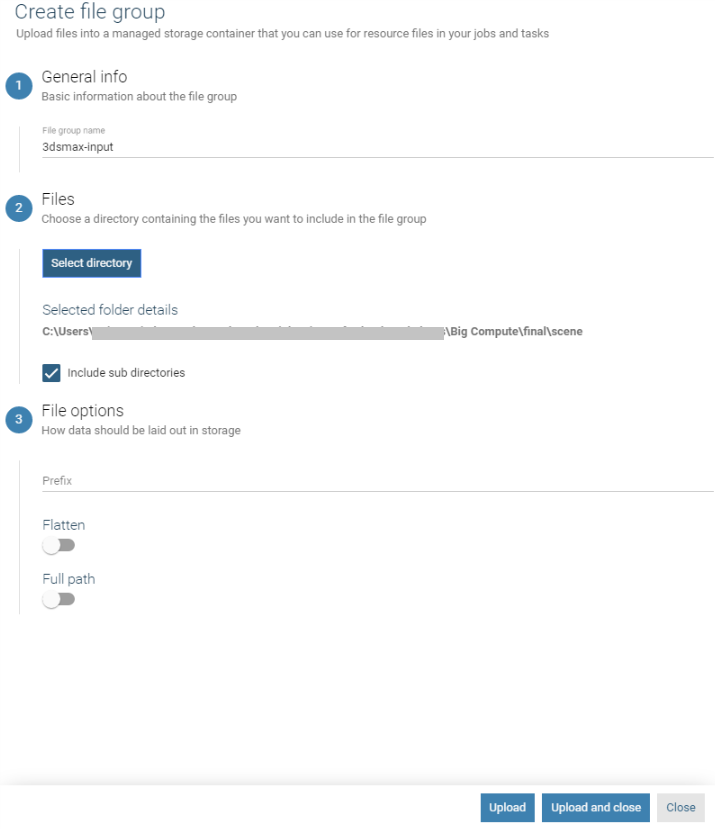
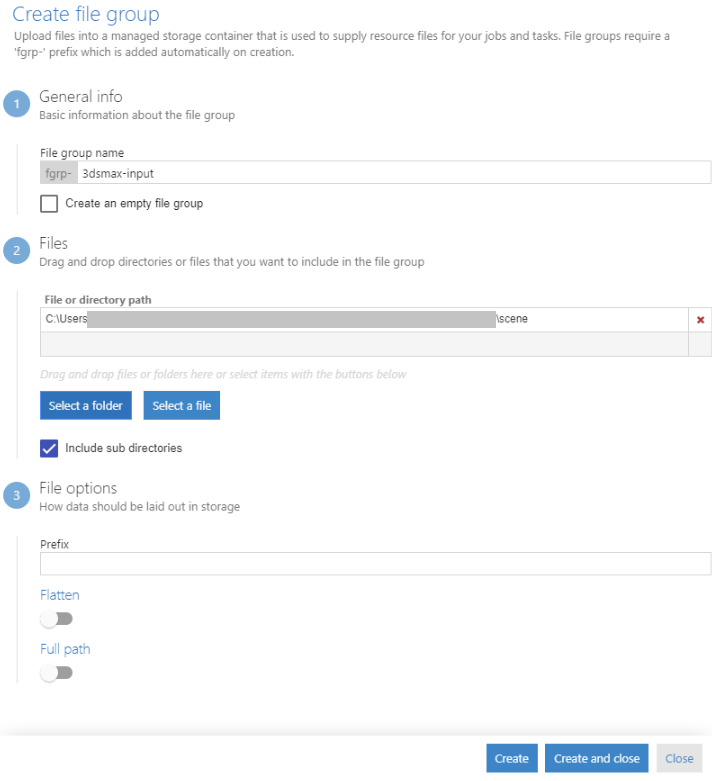
completed test fix

diff --git a/Hands-on lab/HOL step-by step - Big Compute.md b/Hands-on lab/HOL step-by step - Big Compute.md
@@ -9,7 +9,7 @@ Hands-on lab step-by-step
 </div>
 
 <div class="MCWHeader3">
-March 2018
+June 2018
 </div>
 
 Information in this document, including URL and other Internet Web site references, is subject to change without notice. Unless otherwise noted, the example companies, organizations, products, domain names, e-mail addresses, logos, people, places, and events depicted herein are fictitious, and no association with any real company, organization, product, domain name, e-mail address, logo, person, place or event is intended or should be inferred. Complying with all applicable copyright laws is the responsibility of the user. Without limiting the rights under copyright, no part of this document may be reproduced, stored in or introduced into a retrieval system, or transmitted in any form or by any means (electronic, mechanical, photocopying, recording, or otherwise), or for any purpose, without the express written permission of Microsoft Corporation.
@@ -135,10 +135,10 @@ In this exercise, you will setup your environment to work with Azure Batch.
 
 12. Select OK
 
-13. On the Choose a Size blade, select D1 Standard and then Select\
-    ![D1 Standard is selected in the Choose a size blade.](images/Hands-onlabstep-bystep-BigComputeimages/media/image19.png "Choose a size blade")
+13. On the Choose a Size blade, select D1_v2 Standard and then Select\
+    ![D1_v2 Standard is selected in the Choose a size blade.](images/Hands-onlabstep-bystep-BigComputeimages/media/image19.png "Choose a size blade")
 
-14. On the Settings blade, leave the defaults and select OK\
+14. On the Settings blade, under Select public inbound ports select SSH. Leave the remaining settings at their defaults and select OK\
     ![The Settings blade displays with the default settings.](images/Hands-onlabstep-bystep-BigComputeimages/media/image20.png "Settings blade")
 
 15. On the Create blade, select Create\
@@ -165,7 +165,7 @@ In this exercise, you will setup your environment to work with Azure Batch.
 
 2.  Within your SSH session, run the following command to prepare for the CLI:
     ```
-    echo "deb [arch=amd64] https://packages.microsoft.com/repos/azure-cli/ wheezy main" | \
+    echo "deb [arch=amd64] https://packages.microsoft.com/repos/azure-cli/ xenial main" | \
          sudo tee /etc/apt/sources.list.d/azure-cli.list
     ```
 
@@ -186,10 +186,8 @@ In this exercise, you will setup your environment to work with Azure Batch.
 
 6.  The Azure CLI includes most of the functionality that you need for Azure Batch. However, new capabilities that are still in preview (such as the Templates and File feature we will use in this lab) are installed by an extension, and are not available from default Azure CLI installation. Run the following command to install the Microsoft Azure Batch Extensions. Note that you can always determine the latest release by visiting <https://github.com/Azure/azure-batch-cli-extensions/releases> and copying the URL for the Python Wheel (.whl) corresponding to the latest release. Use that URL as the value for the Source parameter in the following command:
     ```
-    az extension add --source 
+    az extension add --source https://github.com/Azure/azure-batch-cli-extensions/releases/download/azure-batch-cli-extensions-2.3.0/azure_batch_cli_extensions-2.3.0-py2.py3-none-any.whl
     ```
-    https://github.com/Azure/azure-batch-cli-extensions/releases/download/azure-batch-cli-extensions-2.1.0/azure\_batch\_cli\_extensions-2.1.0-py2.py3-none-any.whl
-
 7.  When prompted to install the extension, type Y and press enter
 
 8.  You can verify if the extension was installed at any time by running:
@@ -203,7 +201,7 @@ In this exercise, you will setup your environment to work with Azure Batch.
       {
         "extensionType": "whl",
         "name": "azure-batch-cli-extensions",
-        "version": "2.1.0"
+        "version": "2.3.0"
       }
     ]
     ```
@@ -243,12 +241,14 @@ In this exercise, you will setup your environment to work with Azure Batch.
 
     -   Name: Provide a name for the new Azure Storage account that will attached to your Batch Service
 
-    -   Performance: Leave this at Standard
+    -   Account kind: Leave this at Storage (general purpose v1)
 
+    -   Performance: Leave this at Standard   
+    
     -   Replication: Leave this at Locally-redundant storage (LRS)
 
     -   Select OK at the bottom of the blade\
-        ![Screenshot of the Cretate storage account blade.](images/Hands-onlabstep-bystep-BigComputeimages/media/image31.png "Cretate storage account blade")
+        ![Screenshot of the Create storage account blade.](images/Hands-onlabstep-bystep-BigComputeimages/media/image31.png "Create storage account blade")
 
 10. Back on the New Batch Account blade, leave the Pool allocation mode set to Batch service\
     ![Pool allocation mode is set to Batch service.](images/Hands-onlabstep-bystep-BigComputeimages/media/image32.png "Pool allocation mode")
@@ -305,6 +305,7 @@ In this exercise, you will resample video files in scale-out way by using Azure 
     ```
     Make a few copies of the video to create some additional work for the processing we will perform:
 
+    ```
     cp big_buck_bunny_720p_30mb.mp4 big_buck_bunny2_720p_30mb.mp4
     cp big_buck_bunny_720p_30mb.mp4 big_buck_bunny3_720p_30mb.mp4
     cp big_buck_bunny_720p_30mb.mp4 big_buck_bunny4_720p_30mb.mp4
@@ -314,6 +315,7 @@ In this exercise, you will resample video files in scale-out way by using Azure 
     cp big_buck_bunny_720p_30mb.mp4 big_buck_bunny8_720p_30mb.mp4
     cp big_buck_bunny_720p_30mb.mp4 big_buck_bunny9_720p_30mb.mp4
     cp big_buck_bunny_720p_30mb.mp4 big_buck_bunny10_720p_30mb.mp4
+    ```
 
 5.  These videos are currently staged on the Jump Box, but in order to process them using Azure Batch, you will need to copy them over to Azure Storage
 
@@ -341,7 +343,7 @@ In this exercise, you will resample video files in scale-out way by using Azure 
 
 12. Select the Subscription that contains your Batch Account by running the following (be sure to substitute your own subscription name or subscription ID):
     ```
-    az account set \--subscription subscriptionNameOrID
+    az account set --subscription subscriptionNameOrID
     ```
 
 13. Login to your Batch Account by executing the following command (be sure to replace the batchAccountName with the name of your Batch Account):
@@ -462,7 +464,7 @@ An Azure Batch Pool Template enables an experienced Batch user to provide a simp
                 ]
     ```
 
-11. Save the JSON file by selecting Write Out by typing Control + O followed by Enter to leave the name set to pool.json
+11. Save the JSON file by selecting Write Out by typing Control + O followed by Enter to leave the name set to pool.json. Use Control + X to quit nano
 
 12. The template for the pool is now ready for use by an end user
 
@@ -484,7 +486,7 @@ The first step in building a Batch Job is understanding the command line of the 
 
 4.  Next, resample one of the MP4 files found within the samples directory using ffmpeg. We use the -s option to indicate the desired width and height, followed by the strict option which allows the selection of the native FFmpeg AAC encoder:
     ```
-    ffmpeg -i big_buck\bunny_720p_30mb.mp4 -y -s "428x240" -strict -2 output.mp4
+    ffmpeg -i big_buck_bunny_720p_30mb.mp4 -y -s "428x240" -strict -2 output.mp4
     ```
 
 5.  Within a minute or so the resampled video should be ready. Run the following command and verify that you have an output.mp4. How does the size of this file compare to the other MP4 files in this directory?
@@ -519,7 +521,7 @@ The first step in building a Batch Job is understanding the command line of the 
                 }
             },
             "resolution": {
-                "type": "string",sudo
+                "type": "string",
                 "defaultValue": "428x240",
                 "allowedValues": [
                     "428x240",
@@ -658,7 +660,7 @@ The first step in building a Batch Job is understanding the command line of the 
                 },
     ```
     
-17. Save the JSON file by selecting Write Out by typing Control + O followed by Enter to leave the name set to job.json
+17. Save the JSON file by selecting Write Out by typing Control + O followed by Enter to leave the name set to job.json. Use Contol + X to quit nano
 
 18. The template for the job is now ready for use by an end user
 
@@ -676,13 +678,25 @@ In this task, pretend you are switching roles and are now the end user who has b
 
 2.  Run the following command to create a new Batch Pool from the template (be sure to replace the batchAccountName and batchAccountLocation with the values specific to your Batch Account):
     
-    sudo az batch pool create \--template pool.json \--account-name **batchAccountName** \--account-endpoint **batchAccountName**.**batchAccountLocation**.batch.azure.com
+    ```
+    sudo az batch pool create --template pool.json --account-name batchAccountName --account-endpoint batchAccountName.batchAccountLocation.batch.azure.com
+    ```
+
+
+    NOTE: If you get an error running the above command along the lines of **'float' object cannot be interpreted as an integer**, follow these steps:
+    1. Use nano to edit this file:\
+    nano /home/zoinertejada/.azure/cliextensions/azure-batch-cli-extensions/azext/batch/operations/task_operations.py
+    2. Use Control + _  (control and underscore requires using the shift key), type 274 and press enter to go to line 274.
+    3. Replace the line 
+        if threads and threads > 0:
+    with this:
+        if threads and threads >= 1:
+    4. Select Control + O to save the changes, then control + x to exit nano.
+    5. Retry the az batch pool create command as before.
 
 3.  The command will prompt you for the values to use for the parameters, including the poolId and nodeCount. Provide these as follows:
 
     The behavior of this command has been altered by the following extension: azure-batch-cli-extensions
-
-    You are using an experimental feature {Pool Template}.
 
     poolId (The pool id ): **resamplePool**
 
@@ -694,7 +708,7 @@ In this task, pretend you are switching roles and are now the end user who has b
     ![In the Batch labs dashboard, Pool status now lists resamplePool.](images/Hands-onlabstep-bystep-BigComputeimages/media/image45.png "Batch labs dashboard")
 
 5.  It will take about 2-3 minutes for the Pool to be ready (at which point the resamplePool status will show a fixed 5 instances)\
-    ![Under Pool status, resampleppl lists five instances.](images/Hands-onlabstep-bystep-BigComputeimages/media/image46.png "Pool status")
+    ![Under Pool status, resamplePool lists five instances.](images/Hands-onlabstep-bystep-BigComputeimages/media/image46.png "Pool status")
 
 6.  This means the VM nodes in the pool are ready for some work. Continue with the next task to supply some
 
@@ -704,7 +718,7 @@ In this task, you will continue in the role of the end user, this time using the
 
 1.  Return to the SSH session, make sure you have navigated to the folder that contains the job.json file
 
-2.  Run the following command to create and run the job to resample the images. Be sure to replace batchAccountName and batchAccountLocation as appropriate.
+2.  Run the following command to create and run the job to resample the videos. Be sure to replace batchAccountName and batchAccountLocation as appropriate.
     ```
     sudo az batch job create --template job.json --account-name batchAccountName --account-endpoint batchAccountName.batchAccountLocation.batch.azure.com
     ```
@@ -840,7 +854,7 @@ We had to enable Auto scale using the portal, but we can also edit the Auto scal
 
 7.  Review the formula. This formula will be evaluated every 5 minutes (as dictated by the Evaluation Interval). The first line gets percentage of telemetry actually reported versus the total amount expected. To understand this, note that Batch samples the telemetry every 30 seconds. In a 5 minute windows, therefore, there are theoretically 10 samples to expect. However, not all samples are collected in time because of various latencies, or they may be lost, leading to a case where fewer than the expected number of samples is collected.
     ```
-    \$samples = \$ActiveTasks.GetSamplePercent(TimeInterval\_Minute \* 5);
+    $samples = $ActiveTasks.GetSamplePercent(TimeInterval_Minute * 5);
     ```
 
 8.  In the next line, we determine how many samples were collected. If fewer than 70 percent of the expected samples were collected, then we determine the number of tasks from the very last sample we received. Otherwise, we choose the larger number of tasks provided by either the last sample or the average number of tasks over the last 5 minutes.
@@ -850,7 +864,7 @@ We had to enable Auto scale using the portal, but we can also edit the Auto scal
 
 9.  Next comes the line which is critical to the number of nodes to scale up to or down to is calculated. In this line, if we a have one or more tasks, we simply allocate as many nodes as we have tasks. If we have no tasks to process, then we reduce the amount of VM's, dividing the amount we currently have allocated by 4. If the division by 4 yields a value less than 1 then this is effectively treated as 0 nodes. In the case of no tasks to process, this enables us to scale down gradually, every 5 minutes we might scale down the pool to 1/4^th^ its previous size.
     ```
-    \$targetVMs = $tasks > 0 ? $tasks : max(0, $TargetDedicated / 4);
+    $targetVMs = $tasks > 0 ? $tasks : max(0, $TargetDedicated / 4);
     ```
 
     In the next two lines, we guard that our scaling calculation does not result in fewer than 0 nodes and no more than the maximum size we desire (in this case, we don't want it to be bigger than our pool size which has 4 VMs). With the assignment of TargetDedicated, a resizing operation may take place to adjust the pool size accordingly.
@@ -951,30 +965,24 @@ In this exercise you will use the Azure Batch Rendering Service to render a fram
 
 2.  Unzip the .max file into a folder called scene:![The Introduction to Arnold robot final .max folder displays.](images/Hands-onlabstep-bystep-BigComputeimages/media/image80.png ".Max file")
 
-3.  Next go to the Data tab in Batch Labs and from the top select the + to the right of the label File Groups\
-    ![Screenshot of the Plus symbol to the right of File Groups.](images/Hands-onlabstep-bystep-BigComputeimages/media/image81.png "Plus symbol")
+3.  Next go to the Data tab in Batch Labs, under Storage Containers select File Groups in the drop-down. Then select the + to the right of the label Storage Containers and select From local folder (File group)
+    ![Screenshot of the new File Group options.](images/Hands-onlabstep-bystep-BigComputeimages/media/image81.png "New file group")
 
-4.  Select From local folder\
-    ![In the Plus symbol drop-down menu, From local folder is selected.](images/Hands-onlabstep-bystep-BigComputeimages/media/image82.png "Plus symbol drop-down menu")
-
-5.  On the Create file group blade, provide:
+4.  On the Create file group blade, provide:
 
     -   File group name: specify 3dsmax-input
 
-    -   Files: Use the select directory button to navigate to the Scene directory and select it
+    -   Files: Use the select a folder button to navigate to the Scene directory and select it
 
     -   File Options: leave these at the default values
 
-    -   Select Upload and close\
+    -   Select Create and close\
         ![The Create file group page displays. ](images/Hands-onlabstep-bystep-BigComputeimages/media/image83.png "Create file group section")
 
-6.  Next, you will create the file group that will contain the Job outputs. From the top select the + to the right of the label File Groups\
-    ![Screenshot of the Plus symbol to the right of File Groups.](images/Hands-onlabstep-bystep-BigComputeimages/media/image81.png "Plus symbol")
+5.  Next, you will create the file group that will contain the Job outputs. From the top select the + to the right of the label Storage Containers, and this time select Empty file group\
+    ![Screenshot of the new File Group options.](images/Hands-onlabstep-bystep-BigComputeimages/media/image81.png "New file group")
 
-7.  This time select Empty file group\
-    ![The Plus symbol drop-down menu displays.](images/Hands-onlabstep-bystep-BigComputeimages/media/image82.png "Plus symbol drop-down menu")
-
-8.  Provide the name 3dsmax-output and select Confirm to create the new file group\
+6.  Provide the name 3dsmax-output and select Confirm to create the new file group\
     ![Under Add a new file group, 3dsmax-output displays.](images/Hands-onlabstep-bystep-BigComputeimages/media/image84.png "Add a new file group section")
 
 ### Task 1: Render a 3ds Max Scene
@@ -984,7 +992,7 @@ In this exercise you will use the Azure Batch Rendering Service to render a fram
 
 2.  In the list of Market applications, select 3ds Max
 
-3.  You will be presented with list of actions you can take with 3ds Max and Azure Batch. Select Render an Arnold Scene\
+3.  You will be presented with list of actions you can take with 3ds Max and Azure Batch. Select VRay or Arnold Scene\
     ![On the Choose action tab, a list of actions displays. At this time, we are unable to capture all of the action options. Future versions of this course should address this.](images/Hands-onlabstep-bystep-BigComputeimages/media/image86.png "Choose action")
 
 4.  When using the Rendering Service, you can have the Pool automatically created according to the requirements of 3ds Max or you can supply your own (which requires you to properly configure such a Pool). Select Run job with auto pool.\
@@ -997,7 +1005,7 @@ In this exercise you will use the Azure Batch Rendering Service to render a fram
 
     -   Job Name: 3dsmax-arnold
 
-    -   Input filegroup: select the 3dsmax-input file group from the list
+    -   Input filegroup: select the fgrp-3dsmax-input file group from the list
 
     -   Scene file: select the file Introduction-to-Arnold\_robot\_final.max in the file dialog that displays
 
@@ -1011,13 +1019,13 @@ In this exercise you will use the Azure Batch Rendering Service to render a fram
 
     -   Frame height: Set this to 300. This will render an output that is 300 pixels tall
 
-    -   Output filegroup: select the 3dsmax-output file group from the list\
+    -   Output filegroup: select the fgrp-3dsmax-output file group from the list\
         ![Under Job, fields are set to the previously defined settings.](images/Hands-onlabstep-bystep-BigComputeimages/media/image89.png "Job")
 
 7.  Select the submit button to create the Pool and launch the render Job\
     ![Screenshot of the Submit button.](images/Hands-onlabstep-bystep-BigComputeimages/media/image90.png "Submit button")
 
-8.  This will take you're the Jobs tab, with your new Job pre-selected\
+8.  This will take you to the Jobs tab, with your new Job pre-selected\
     ![The Jobs tab displays on the Batch Labs desktop. Zero tasks are active.](images/Hands-onlabstep-bystep-BigComputeimages/media/image91.png "Batch Labs desktop, Jobs tab")
 
 9.  It will take about 5 minutes for the Pool and the single VM to be provisioned. While you wait, it is worth understanding what is happening behind the scenes. The Batch will deploy the VM using an image that already contains 3ds Max, this saves tremendous startup time because installing 3ds Max as a startup task could take 20 minutes alone. Additionally, this particular image is pre-configured to use the licensing for 3ds Max that is provided in Azure by Microsoft. This means you do not need to acquire a license for the VM, nor setup your own licensing infrastructure. Instead, the cost of the license is rolled into the per hour fee associated with this Marketplace image.

diff --git a/Hands-on lab/HOL unguided - Big Compute.md b/Hands-on lab/HOL unguided - Big Compute.md
@@ -9,7 +9,7 @@ Hands-on lab unguided
 </div>
 
 <div class="MCWHeader3">
-March 2018
+June 2018
 </div>
 
 Information in this document, including URL and other Internet Web site references, is subject to change without notice. Unless otherwise noted, the example companies, organizations, products, domain names, e-mail addresses, logos, people, places, and events depicted herein are fictitious, and no association with any real company, organization, product, domain name, e-mail address, logo, person, place or event is intended or should be inferred. Complying with all applicable copyright laws is the responsibility of the user. Without limiting the rights under copyright, no part of this document may be reproduced, stored in or introduced into a retrieval system, or transmitted in any form or by any means (electronic, mechanical, photocopying, recording, or otherwise), or for any purpose, without the express written permission of Microsoft Corporation.
@@ -152,7 +152,7 @@ In this exercise, you will set up your environment to work with Azure Batch.
 
 2.  Within your SSH session, run the following command to prepare for the CLI:
     ```
-    echo "deb [arch=amd64] https://packages.microsoft.com/repos/azure-cli/ wheezy main" | \
+    echo "deb [arch=amd64] https://packages.microsoft.com/repos/azure-cli/ xenial main" | \
          sudo tee /etc/apt/sources.list.d/azure-cli.list
     ```
 
@@ -167,10 +167,8 @@ In this exercise, you will set up your environment to work with Azure Batch.
 
 4.  Install the Microsoft Azure Batch Extensions:
     ```
-    az extension add --source 
+    az extension add --source https://github.com/Azure/azure-batch-cli-extensions/releases/download/azure-batch-cli-extensions-2.3.0/azure_batch_cli_extensions-2.3.0-py2.py3-none-any.whl
     ```
-
-    https://github.com/Azure/azure-batch-cli-extensions/releases/download/azure-batch-cli-extensions-2.1.0/azure\_batch\_cli\_extensions-2.1.0-py2.py3-none-any.whl
 
 #### Exit criteria
 
@@ -185,7 +183,7 @@ In this exercise, you will set up your environment to work with Azure Batch.
       {
         "extensionType": "whl",
         "name": "azure-batch-cli-extensions",
-        "version": "2.1.0"
+        "version": "2.3.0"
       }
     ]
     ```
@@ -450,6 +448,17 @@ In this task, pretend you are switching roles and are now the end user who has b
 2.  Run the following command to create a new Batch Pool from the template:
     
     sudo az batch pool create \--template pool.json \--account-name **batchAccountName** \--account-endpoint **batchAccountName**.**batchAccountLocation**.batch.azure.com
+
+    NOTE: If you get an error running the above command along the lines of **'float' object cannot be interpreted as an integer**, follow these steps:
+    1. Use nano to edit this file:\
+    nano /home/zoinertejada/.azure/cliextensions/azure-batch-cli-extensions/azext/batch/operations/task_operations.py
+    2. Use Control + _  (control and underscore requires using the shift key), type 274 and press enter to go to line 274.
+    3. Replace the line 
+        if threads and threads > 0:
+    with this:
+        if threads and threads >= 1:
+    4. Select Control + O to save the changes, then control + x to exit nano.
+    5. Retry the az batch pool create command as before.
 
 3.  Provide a poolId of resamplePool and a nodeCount of 5
 

diff --git a/Hands-on lab/Before the lab.md b/Hands-on lab/Before the lab.md
@@ -2,7 +2,7 @@
 
 ## Requirements
 
--   Microsoft Azure subscription (non-Microsoft subscription)
+-   Microsoft Azure subscription (non-Microsoft subscription, must be a pay-as-you subscription)
 
 -   Local machine running Windows or Mac OS X
 
